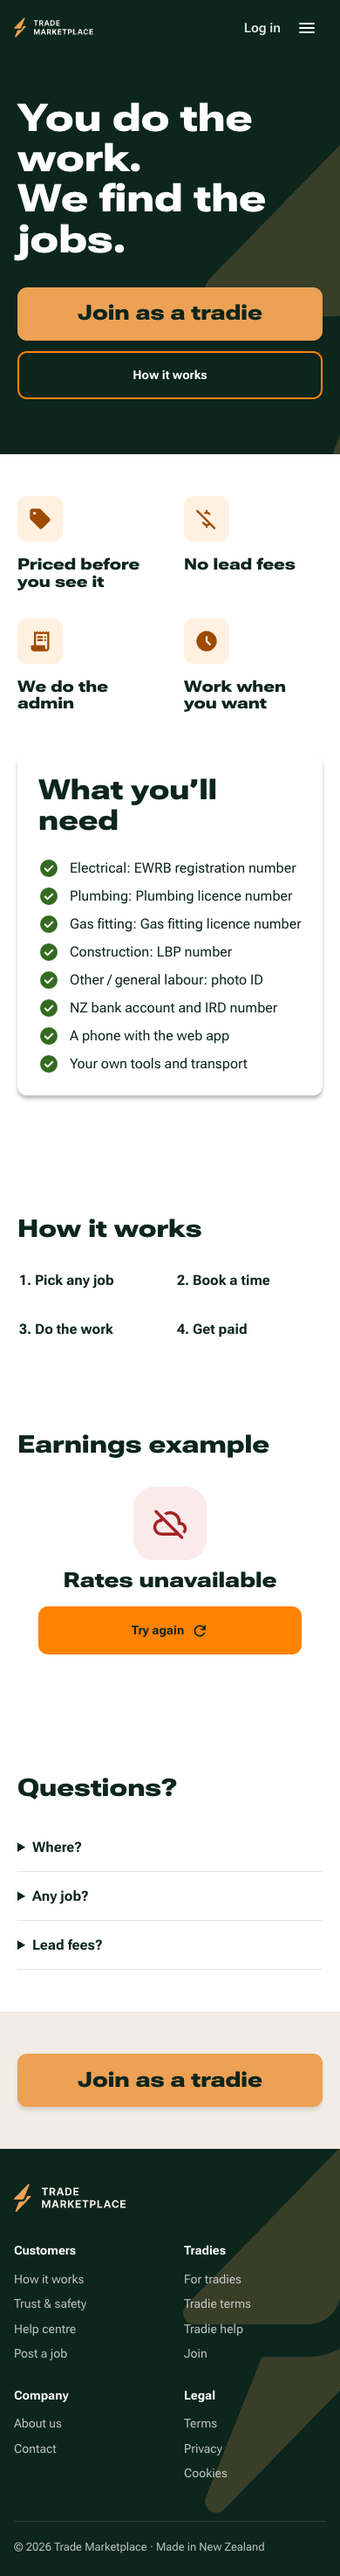
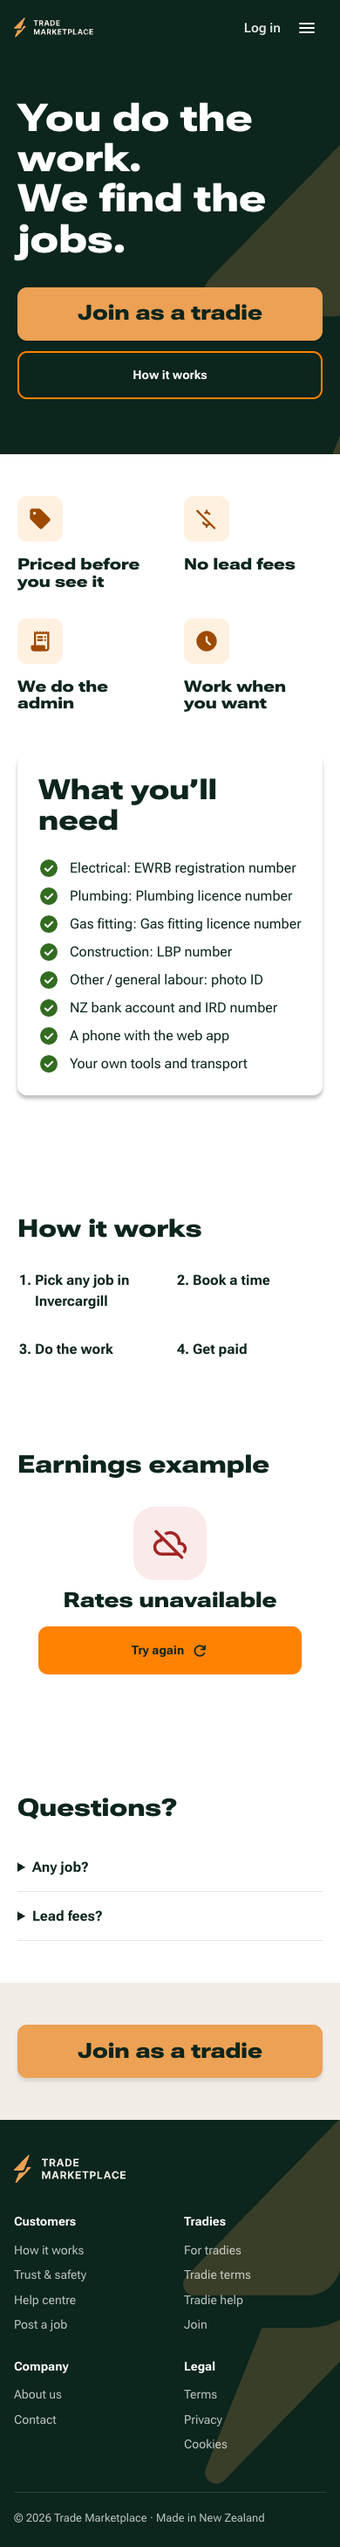
Record final For tradies checks and visual evidence

diff --git a/docs/reviews/213/checks.md b/docs/reviews/213/checks.md
@@ -1,36 +1,27 @@
-# Verification status · #213
+# Verification · #213
 
-Implementation started on main `3c7344f` and is now rebased onto latest main `faaf5d2` (#384). The new base includes the deterministic profile-timestamp fix for #346. Final verification is pending shared test capacity; no PR, merge or manual deployment.
+Application and test source: `49934c34aafc6244a6dae40081f6a6566b9a1f27`, rebased onto latest main `faaf5d2587ae5dcb19492da628814e3848f29c57`. Final evidence commit changes only review screenshots, word counts and documentation. All required gates pass; no merge or manual deployment.
 
-All checks preserve their assertions and timeouts. Heavy runs are stopped while another worker owns `/tmp/trade-marketplace-heavy-check.lock`. Orchestration files are outside the checkout in the task workspace's `verification/` directory. Final runs will be serial, with one unit-test worker and at most two browser workers.
+| Required gate | Final result |
+|---|---|
+| `npm run lint` | Passed, exit 0 |
+| `npm run typecheck` | Passed, exit 0 |
+| `npm test -- --maxWorkers=1` | 105 files, 2,202 passed, 0 failed, 0 skipped; 52.82 s |
+| `npm run build` | Passed, invoked once by `npm run e2e` |
+| `npm run e2e` with task-specific Playwright config | 199 passed, 445 conditional skips, 0 failed |
+| Explicit For tradies browser run with guarded previews enabled | 32 passed, 0 failed, 0 skipped |
+| Production-build capture run | All states captured at 1440/390; Open Graph and Twitter routes both 200 |
 
-## Completed evidence
+The default production e2e configuration intentionally skips guarded development and signed-in fixture tests without their existing environment flags. Its 445 skips include the 20 new preview-state cases; all 20 execute in the separate 32-test For tradies run. No required For tradies coverage is skipped. Existing assertions, timeouts, skip conditions and dependencies were preserved.
 
-- Issue was open/unclaimed, with no covering open PR. Claimed with exactly `Taking this — Codex`.
-- Existing prerequisite #83 is closed. No project board item exists for #213.
-- Real Chromium mockup captures at 1440 and 390 preceded code. No specific phone For tradies frame exists; closest public landing frame used.
-- Two visual correction passes, followed by the header geometry correction, are preserved locally. Every current desktop/phone state pair was personally inspected.
-- Public URL HEAD checks: homepage 200; `/for-tradies` 404 until merge/deployment.
-- Existing local Open Graph and Twitter routes both return 200 and their source files are untouched.
-- Lint and typecheck passed earlier; production builds pass, including the final force-dynamic server route. Final source checks will be rerun after the last copy/test adjustment.
-- Initial focused unit checks: 33 passed across For tradies and existing site-shell tests.
+The explicit browser run covers ready, empty, loading and error at 320/390/768/1024/1440; no horizontal overflow; axe; keyboard FAQ and visible focus; CTA navigation through real signup account Next/Back; mobile menu dismissal; M06/M07 and reduced motion. Two visual correction passes were preserved locally before final captures, then the header geometry was corrected. Every final desktop/phone state capture was personally inspected. Reference limitations and all images are in [README.md](README.md).
 
-## Previous complete runs under shared load
+The first post-rebase unit run passed 2,197 tests and failed only the automatically discovered dev-page inventory because its cached import list omitted the new upstream Recovery page. Following that test's documented instruction, clearing only this checkout's generated `node_modules/.vitest-cache` restored all 2,202 tests without source/assertion changes. Earlier resource-contention and trace-cleanup attempts were superseded by these serial final runs; runner output directories are isolated.
 
-| Run | Exact result | Remaining problem |
-|---|---|---|
-| Unit/database, initial | 2,146 passed; 3 failed; 0 skipped | Profile timestamp (#346), same-millisecond estimate timestamp, screenshot race timeout (#380). These files are unchanged from main. |
-| Retry of those three files | 115 passed; 1 failed; 0 skipped | Profile timestamp equality (#346); estimate and screenshot checks passed. |
-| Unit/database under Node 22.22 and heavy shared load | 2,147 passed; 2 failed; 0 skipped | Unchanged seed-file scan (5s) and ESLint-ignore probe (30s) exceeded their timeouts. Timestamp and race checks passed. |
-| Full e2e under Node 22.22 | 188 passed; 3 failed; 434 conditional skips | Two trace cleanup collisions between my local runner configs, plus one context-teardown timeout. Page assertions passed. Separate output directories now prevent the collision. |
-| Focused For tradies browser run after header correction | 31 passed; 1 failed; 0 skipped | Same trace cleanup collision at 1440; page/axe assertions passed. M06/M07 passes. |
+Checks used checksum-verified supported Node 22.22 and real Playwright Chromium. Heavy checks ran serially under `/tmp/trade-marketplace-heavy-check.lock`, with one unit worker and at most two build/browser workers; the task released its lock. Full runner logs and both earlier visual passes remain in the local task workspace's `verification/` directory.
 
-The full production-mode e2e run includes guarded development and signed-in fixture tests that intentionally skip without their existing environment flags. The 20 new preview-state cases are separately exercised with guarded local previews enabled. No required For tradies state is intended to be skipped in the final focused run.
+Database tests used only disposable local Postgres `trade-213-tests` on 127.0.0.1:55413. App/build/browser checks set database and Supabase variables empty. Preview earnings use fixed isolated settings; production reads server settings per request and never substitutes preview amounts. No live database, secrets, security configuration, financial actions, merge or manual deployment.
 
-The initial Node 22.17 full e2e collection hit `Unexpected module status 3` in an unchanged Supabase import. The official checksum-verified Node 22.22 runtime resolves that collection error; no dependency/engine requirement was changed.
+Public URL HEAD checks: homepage 200; `/for-tradies` 404 until merge/deployment. Existing Open Graph and Twitter source is untouched and both local routes return 200. Issue was open/unclaimed without a covering PR when claimed with exactly `Taking this — Codex`; prerequisite #83 is closed.
 
-## Still required
-
-Fresh lint, typecheck, the entire unit/database suite, production build/full e2e, all focused preview checks, refreshed 1440/390 screenshots and word counts, and final inspection. The final PR will only be opened as a draft if every gate passes. Otherwise the exact blocker will be recorded on #213 without a PR.
-
-Database tests use only disposable local Postgres `trade-213-tests` on 127.0.0.1:55413. App/browser checks set database and Supabase variables empty. No live database, secrets, auth/security configuration, financial actions, merge or manual deployment.
+Made by: Codex (GPT-6.1).

diff --git a/docs/reviews/213/README.md b/docs/reviews/213/README.md
@@ -2,7 +2,7 @@
 
 The `/for-tradies` page uses the founder's exact hero, trade colours, existing buttons, job rows, price blocks, feedback, header and footer. Requirements come from `SIGNUP_TRADES`. Earnings examples come from current server settings through `ratesForTrade`, `priceWork` and `perHour`; only worker pay reaches the client. Missing or invalid settings never fall back to mockup amounts. The existing Open Graph and Twitter routes are unchanged. No testimonials or #280 onboarding rules are invented.
 
-**Verification pending:** the current capture set precedes the small visible-Invercargill copy adjustment. A final refresh also awaits the kit loading skeleton's deliberate 300 ms delay. The shared Mac heavy-check lock is queued behind another worker; no PR is open. Counts below describe these interim captures and will be regenerated after final verification.
+All required gates pass on application/test source commit `49934c3`, rebased onto main `faaf5d2`. This review records the final production-build captures; subsequent changes only update screenshots, counts and this check report. See [exact results](checks.md).
 
 ## References and visual review
 
@@ -18,7 +18,21 @@ Two visual correction passes are preserved in the local task workspace’s `veri
 |---|---|
 | ![Closest phone reference](closest-mockup-390.png) | ![Built phone comparison](comparison-390.png) |
 
-The reference has no designed empty/loading/error/FAQ states or full page below the requirements card. Those use the existing kit and the closest public-page layout. Full captures:
+The reference has no designed empty/loading/error/FAQ states or full page below the requirements card. Those use the existing kit and the closest public-page layout. The same-size comparison crops below cover every state; full captures afterward show each distinct earnings/FAQ state below the reference area.
+
+| State / size | Reference | Built comparison |
+|---|---|---|
+| empty / 1440 | ![Reference](mockup-1440.png) | ![Built empty](comparison-empty-1440.png) |
+| empty / 390 | ![Reference](closest-mockup-390.png) | ![Built empty](comparison-empty-390.png) |
+| loading / 1440 | ![Reference](mockup-1440.png) | ![Built loading](comparison-loading-1440.png) |
+| loading / 390 | ![Reference](closest-mockup-390.png) | ![Built loading](comparison-loading-390.png) |
+| error / 1440 | ![Reference](mockup-1440.png) | ![Built error](comparison-error-1440.png) |
+| error / 390 | ![Reference](closest-mockup-390.png) | ![Built error](comparison-error-390.png) |
+| faq-open / 1440 | ![Reference](mockup-1440.png) | ![Built faq-open](comparison-faq-open-1440.png) |
+| faq-open / 390 | ![Reference](closest-mockup-390.png) | ![Built faq-open](comparison-faq-open-390.png) |
+| Menu / 390 | ![Closest phone reference](closest-mockup-390.png) | ![Built menu](comparison-menu-390.png) |
+
+Full captures:
 
 | State | Desktop 1440 | Phone 390 |
 |---|---|---|
@@ -50,16 +64,16 @@ There are no `.agents` skills or nested `AGENTS.md` files in this checkout. Read
 
 ## Words
 
-Counts are browser-visible words in the complete page, excluding decorative Material Symbol ligatures, invisible accessibility text, closed FAQ answers and hidden responsive content. `main` excludes header/footer; `screen` includes them. Open FAQ answers are counted in their own state. See [the machine-readable counts](word-counts.json).
+Counts are browser-visible text tokens in the complete page, including visible amounts and excluding decorative Material Symbol ligatures, invisible accessibility text, closed FAQ answers, hidden responsive content and graphical wordmark paths. Covered text behind the open mobile menu is excluded. `main` excludes header/footer; `screen` includes them. Open FAQ answers are counted in their own state. See [the machine-readable counts](word-counts.json).
 
 | State | Main 1440 | Main 390 | Screen 1440 | Screen 390 |
 |---|---:|---:|---:|---:|
-| Ready | 144 | 130 | 193 | 169 |
-| Empty | 107 | 107 | 156 | 146 |
-| Loading | 105 | 105 | 154 | 144 |
-| Error | 109 | 109 | 158 | 148 |
-| FAQ expanded | 158 | 144 | 207 | 183 |
-| Menu | — | 107 | — | 161 |
+| Ready | 147 | 133 | 196 | 172 |
+| Empty | 108 | 108 | 157 | 147 |
+| Loading | 106 | 106 | 155 | 145 |
+| Error | 110 | 110 | 159 | 149 |
+| FAQ expanded | 160 | 146 | 209 | 185 |
+| Menu | — | 96 | — | 147 |
 
 ## Verification boundary
 
@@ -67,6 +81,6 @@ Local app ports 3213 and 4213; disposable Postgres container `trade-213-tests` o
 
 The original Node 22.17 runtime hit `Unexpected module status 3` while collecting an unchanged Supabase import in the full e2e suite. An official, checksum-verified Node 22.22 runtime in `/tmp/trade-213-node` was used for the rerun; both satisfy the declared Node 22 engine range. No repository dependency or engine requirement was changed.
 
-Final check results and any blockers are recorded in the issue update and `checks.md` beside this file.
+Final results are recorded in [checks.md](checks.md). No required local gate remains blocked.
 
 Made by: Codex (GPT-6.1).
